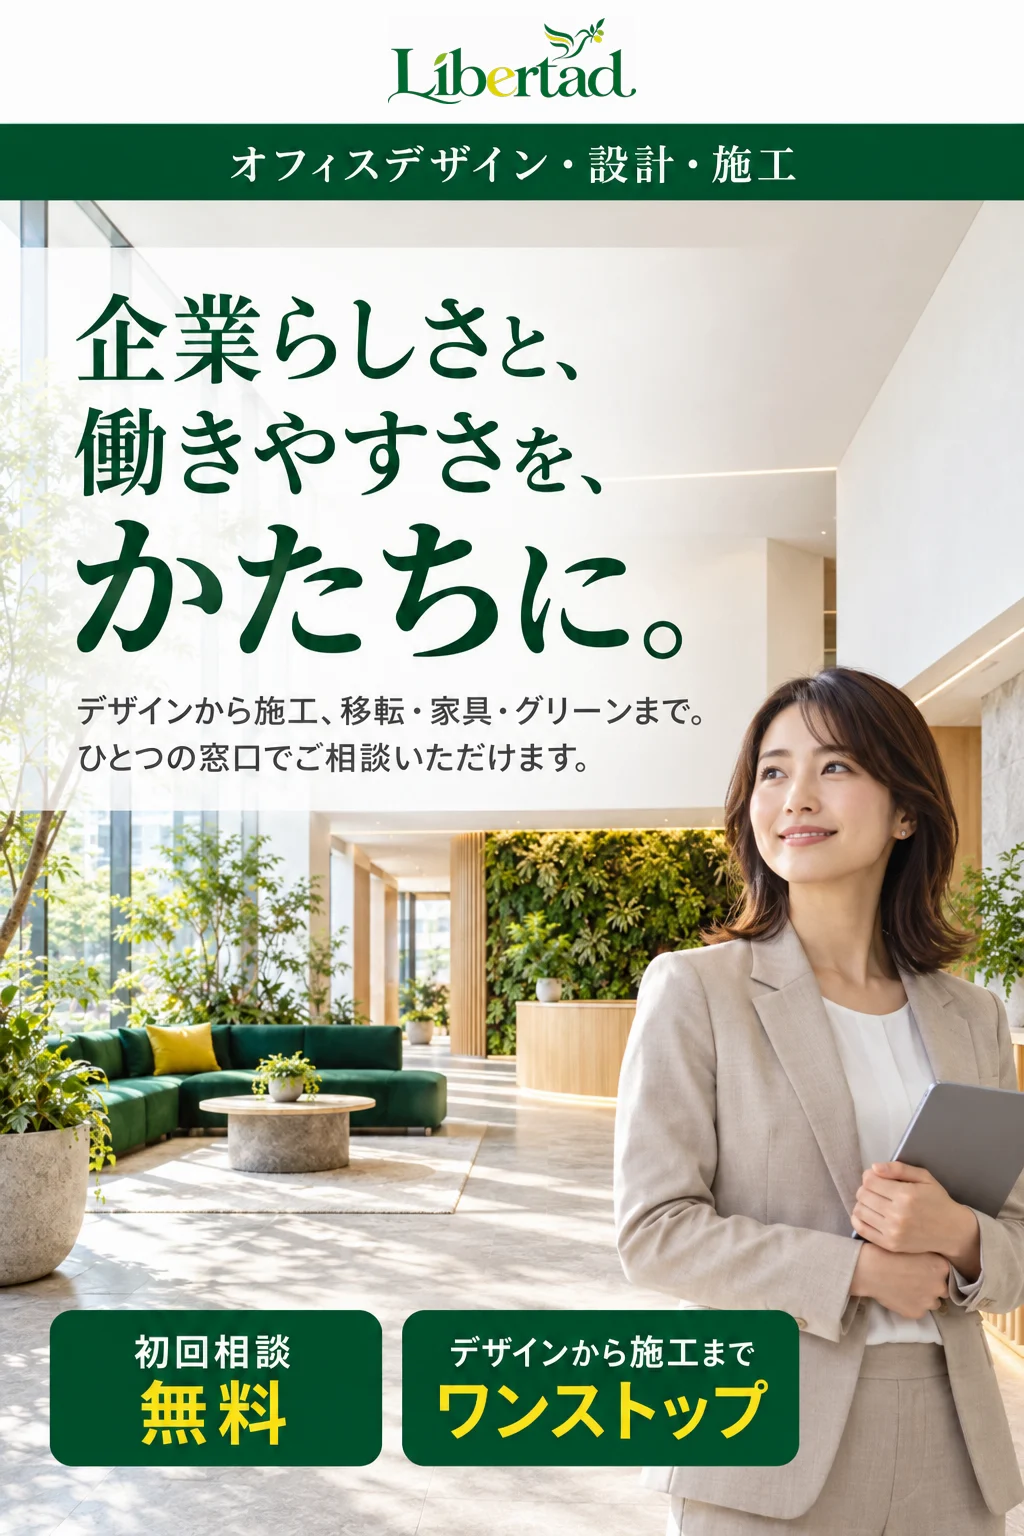
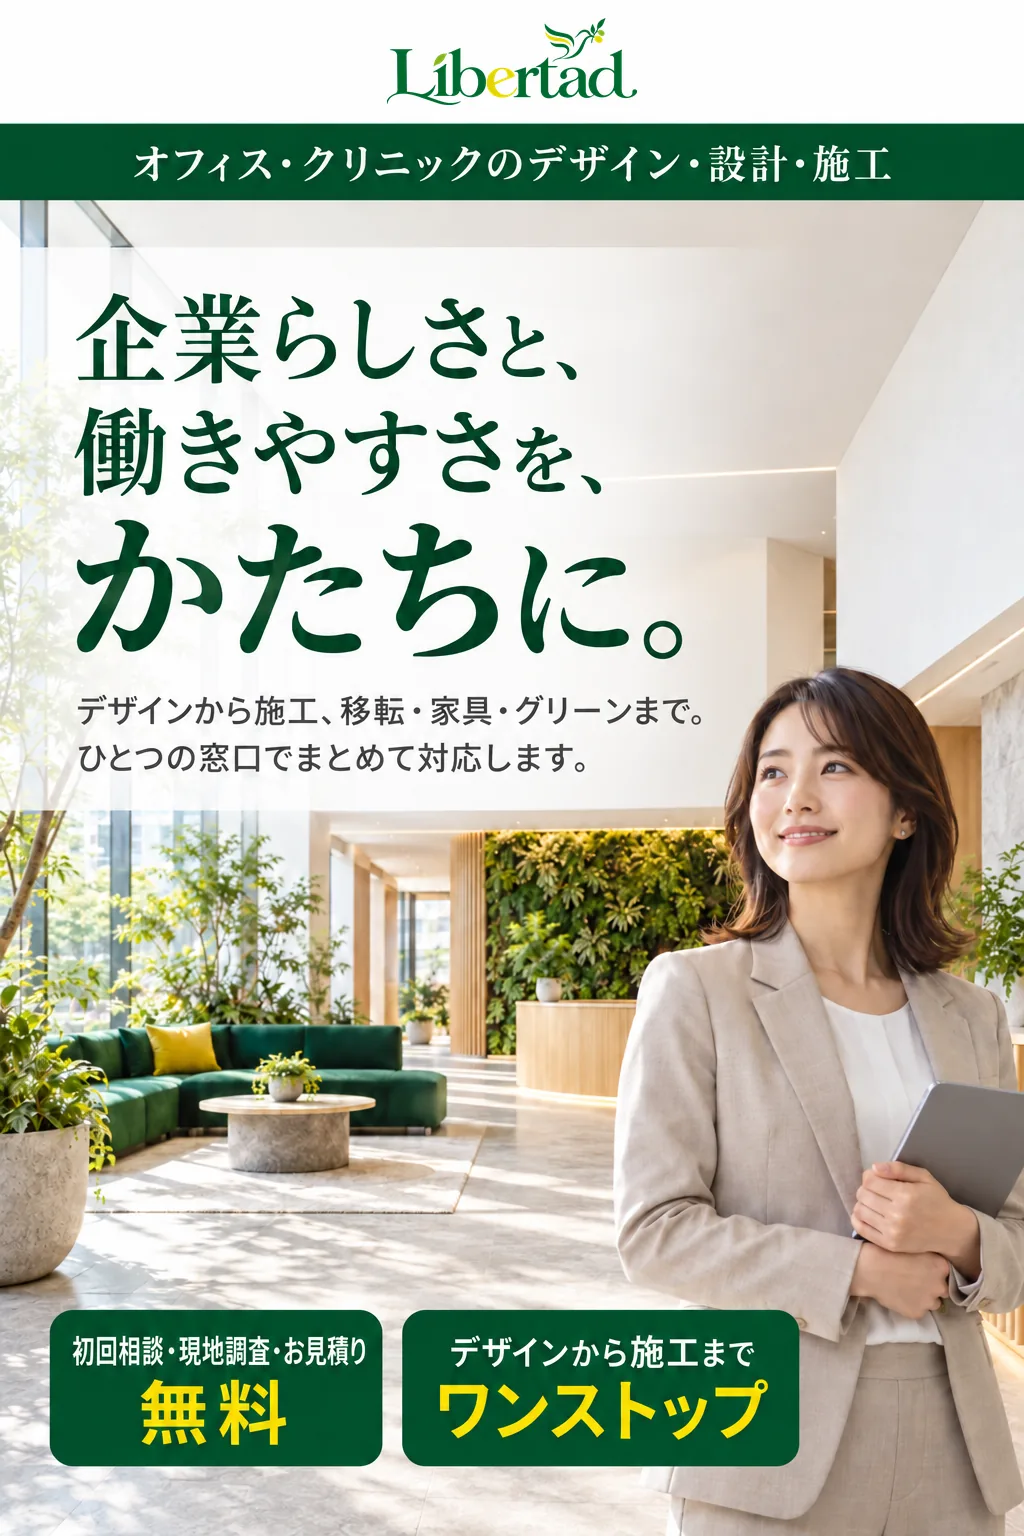
クリニック対応: FV・お悩み・クロージング画像差替＋クリニック空間2枚追加・文言反映・OGP更新

diff --git a/index.html b/index.html
@@ -131,7 +131,11 @@
   .svc p { font-size: 12px; color: var(--muted); margin-top: 6px; line-height: 1.6; }
   .svc .note { margin-top: 6px; font-size: 10px; }
 
-  .scenes { margin-top: 28px; display: grid; gap: 14px; }
+  .scenes { margin-top: 14px; display: grid; gap: 14px; }
+  .scene-group { margin-top: 28px; font-family: var(--sans); font-size: 12px; letter-spacing: .22em; color: var(--leaf); font-weight: 700; padding-bottom: 6px; border-bottom: 2px solid var(--leaf); }
+  .scene-group span { margin-left: 10px; letter-spacing: .08em; color: var(--green-dark); }
+  .scene-group + .scenes { margin-top: 14px; }
+  .scene-group:nth-of-type(2) { margin-top: 32px; }
   .scenes figcaption { top: 8px; bottom: auto; }
   .values figcaption { right: auto; left: 8px; }
   .problem figcaption { top: 59%; bottom: auto; }
@@ -203,7 +207,7 @@
   <section class="fv">
     <h1 class="sr">オフィス・クリニックのデザイン・設計・施工｜企業らしさと、働きやすさを、かたちに。</h1>
     <figure class="img-note">
-      <img src="images/lb-01.webp" alt="Libertad オフィスデザイン・設計・施工。企業らしさと、働きやすさを、かたちに。デザインから施工、移転・家具・グリーンまで。ひとつの窓口でご相談いただけます。初回相談無料。デザインから施工までワンストップ。" width="1024" height="1536">
+      <img src="images/lb-01.webp" alt="Libertad オフィス・クリニックのデザイン・設計・施工。企業らしさと、働きやすさを、かたちに。デザインから施工、移転・家具・グリーンまで。ひとつの窓口でまとめて対応します。初回相談・現地調査・お見積り無料。デザインから施工までワンストップ。" width="1024" height="1536">
     </figure>
   </section>
 
@@ -224,9 +228,9 @@
   </section>
 
   <section class="problem">
-    <h2 class="sr">オフィスづくりで、こんなお悩みはありませんか？</h2>
+    <h2 class="sr">オフィス・クリニックづくりで、こんなお悩みはありませんか？</h2>
     <figure class="img-note">
-      <img src="images/lb-02.webp" alt="オフィスづくりで、こんなお悩みはありませんか？ 希望のデザインが、予算内でできるか分からない。今の人数・働き方に合うレイアウトにしたい。移転・改装で業者がバラバラ、調整だけで手一杯。移転日までに、何をいつ決めればいいか分からない。" width="1024" height="1536" loading="lazy">
+      <img src="images/lb-02.webp" alt="オフィス・クリニックづくりで、こんなお悩みはありませんか？ 希望のデザインが、予算内でできるか分からない。今の人数・働き方に合うレイアウトにしたい。移転・改装で業者がバラバラ、調整だけで手一杯。開業・移転日までに、何をいつ決めればいいか分からない。" width="1024" height="1536" loading="lazy">
     </figure>
     <div class="inner">
       <div class="bridge">
@@ -239,8 +243,8 @@
   <section class="one">
     <div class="inner">
       <p class="en">ONE STOP</p>
-      <h2 class="h2">オフィスづくりの窓口を、<br>ひとつに。</h2>
-      <p class="lead">オフィスづくりには、デザイン・内装工事・家具・移転・IT環境など、多くの要素が関わります。</p>
+      <h2 class="h2">オフィス・クリニックづくりの<br>窓口を、ひとつに。</h2>
+      <p class="lead">オフィスやクリニックの空間づくりには、デザイン・内装工事・家具・移転・IT環境など、多くの要素が関わります。</p>
       <div class="compare">
         <div class="card">
           <p class="tag">業者ごとに個別手配すると</p>
@@ -312,10 +316,10 @@
   <section>
     <div class="inner">
       <p class="en">SERVICE</p>
-      <h2 class="h2">オフィスに必要なことを、<br>ひとつの窓口で。</h2>
+      <h2 class="h2">オフィス・クリニックに<br>必要なことを、ひとつの窓口で。</h2>
       <p class="lead">オフィス・クリニックの新設・移転・リニューアル。企業のニーズに合わせて、必要なサービスを組み合わせてご提案します。</p>
       <div class="svc-main">
-        <div class="bar"><small>01｜MAIN SERVICE</small><h3>オフィスデザイン・設計・内装施工</h3></div>
+        <div class="bar"><small>01｜MAIN SERVICE</small><h3>オフィス・クリニックのデザイン・設計・内装施工</h3></div>
         <ul>
           <li>オフィス・クリニックの新設・新装</li>
           <li>リニューアル・改装（部分改装も可）</li>
@@ -368,13 +372,19 @@
     <div class="inner">
       <p class="en">DESIGN IMAGE</p>
       <h2 class="h2">たとえば、こんな空間を。</h2>
-      <p class="lead">企業のブランド・働き方・ご予算に合わせて、一社ごとにプランをつくります。</p>
+      <p class="lead">企業・クリニックのブランド・働き方・ご予算に合わせて、一件ごとにプランをつくります。</p>
       <!-- CASE-SECTION-SLOT: 施工実績が出たら実事例に差し替え -->
+      <p class="scene-group">OFFICE<span>オフィス</span></p>
       <div class="scenes">
         <figure class="img-note"><img src="images/lb-07.webp" alt="SCENE 01 エントランス・受付。企業の第一印象をつくる場所に。" width="1536" height="1024" loading="lazy"></figure>
         <figure class="img-note"><img src="images/lb-08.webp" alt="SCENE 02 執務スペース。集中と会話を両立するレイアウトに。" width="1536" height="1024" loading="lazy"></figure>
         <figure class="img-note"><img src="images/lb-09.webp" alt="SCENE 03 会議室・応接室。商談の質を高める、落ち着いた空間に。" width="1536" height="1024" loading="lazy"></figure>
         <figure class="img-note"><img src="images/lb-10.webp" alt="SCENE 04 リフレッシュスペース。グリーンと花で、ほっとひと息を。" width="1536" height="1024" loading="lazy"></figure>
+      </div>
+      <p class="scene-group">CLINIC<span>クリニック</span></p>
+      <div class="scenes">
+        <figure class="img-note"><img src="images/lb-12.webp" alt="SCENE 05 クリニックの受付・待合室。患者さまが安心して過ごせる、明るく清潔な空間に。" width="1536" height="1024" loading="lazy"></figure>
+        <figure class="img-note"><img src="images/lb-13.webp" alt="SCENE 06 診察室・処置室。清潔感と落ち着きを両立した、使いやすい設計に。" width="1536" height="1024" loading="lazy"></figure>
       </div>
     </div>
   </section>
@@ -383,7 +393,7 @@
     <div class="inner">
       <p class="en">COST</p>
       <h2 class="h2">費用が変わる、<br>主なポイント。</h2>
-      <p class="lead">オフィスづくりの費用は、主に次の要素で変わります。</p>
+      <p class="lead">オフィス・クリニックづくりの費用は、主に次の要素で変わります。</p>
       <!-- PRICE-SECTION-SLOT: 料金の目安が確定したらここに掲載 -->
       <div class="cost-grid">
         <div><h4>広さ</h4><p>坪数・席数</p></div>
@@ -420,7 +430,7 @@
       <details><summary>初回相談は無料ですか？</summary><div class="a">はい、初回のご相談は無料です。</div></details>
       <details><summary>現地調査・お見積り・設計提案に費用はかかりますか？</summary><div class="a">かかりません。現地調査・お見積り・設計のご提案まで無料です。</div></details>
       <details><summary>お問い合わせ後、どのくらいで連絡がもらえますか？</summary><div class="a">お問い合わせから2営業日以内にご連絡します。</div></details>
-      <details><summary>オフィスのイメージが固まっていなくても相談できますか？</summary><div class="a">はい。デザインやレイアウトが決まっていない段階でもご相談いただけます。働き方やご予算、企業のイメージを伺いながら、方向性をご提案します。</div></details>
+      <details><summary>オフィスやクリニックのイメージが固まっていなくても相談できますか？</summary><div class="a">はい。デザインやレイアウトが決まっていない段階でもご相談いただけます。働き方やご予算、企業・医院のイメージを伺いながら、方向性をご提案します。</div></details>
       <details><summary>内装工事だけ、部分改装だけでも依頼できますか？</summary><div class="a">はい。内装工事のみ、部分改装のみのご依頼も承ります。なお、デザインのみのご依頼は承っておりません。</div></details>
       <details><summary>対応できる物件の種類・規模を教えてください。</summary><div class="a">オフィスとクリニックを対象としています。対応規模についてはご相談ください。</div></details>
       <details><summary>移転に必要なサービスをまとめて相談できますか？</summary><div class="a">はい。内装工事を中心に、家具・移転サポート・グリーン・IT・OA機器など、必要なサービスを組み合わせてまとめて対応します。</div></details>
@@ -433,7 +443,7 @@
   <section class="closing">
     <h2 class="sr">働く空間に、もっと自由を。</h2>
     <figure class="img-note">
-      <img src="images/lb-11.webp" alt="働く空間に、もっと自由を。オフィスの移転・改装・新設。まずは予算と進め方からご相談ください。" width="1024" height="1536" loading="lazy">
+      <img src="images/lb-11.webp" alt="働く空間に、もっと自由を。オフィス・クリニックの移転・改装・新設。まずは予算と進め方からご相談ください。" width="1024" height="1536" loading="lazy">
     </figure>
   </section>
   <div class="closing-cta">
@@ -469,7 +479,7 @@
 <script>
   const CONTACT_TO = "info@centerfield-inc.com";
   const mailto = (subject, body) => `mailto:${CONTACT_TO}?subject=${encodeURIComponent(subject)}&body=${encodeURIComponent(body)}`;
-  const consult = mailto("【Libertad】オフィスづくりの無料相談", "会社名：\r\nご担当者名：\r\n所在地：\r\n物件の種類（オフィス／クリニック）：\r\nおおよその坪数・人数：\r\nご希望の時期：\r\nご相談内容（新設／移転／改装／その他）：\r\n");
+  const consult = mailto("【Libertad】オフィス・クリニックづくりの無料相談", "会社名：\r\nご担当者名：\r\n所在地：\r\n物件の種類（オフィス／クリニック）：\r\nおおよその坪数・人数：\r\nご希望の時期：\r\nご相談内容（新設／移転／改装／その他）：\r\n");
   const partner = mailto("【Libertad】協業のご相談", "会社名：\r\nご担当者名：\r\nご相談内容：\r\n");
   document.querySelectorAll(".js-cta").forEach(a => a.href = consult);
   document.querySelectorAll(".js-cta-partner").forEach(a => a.href = partner);
